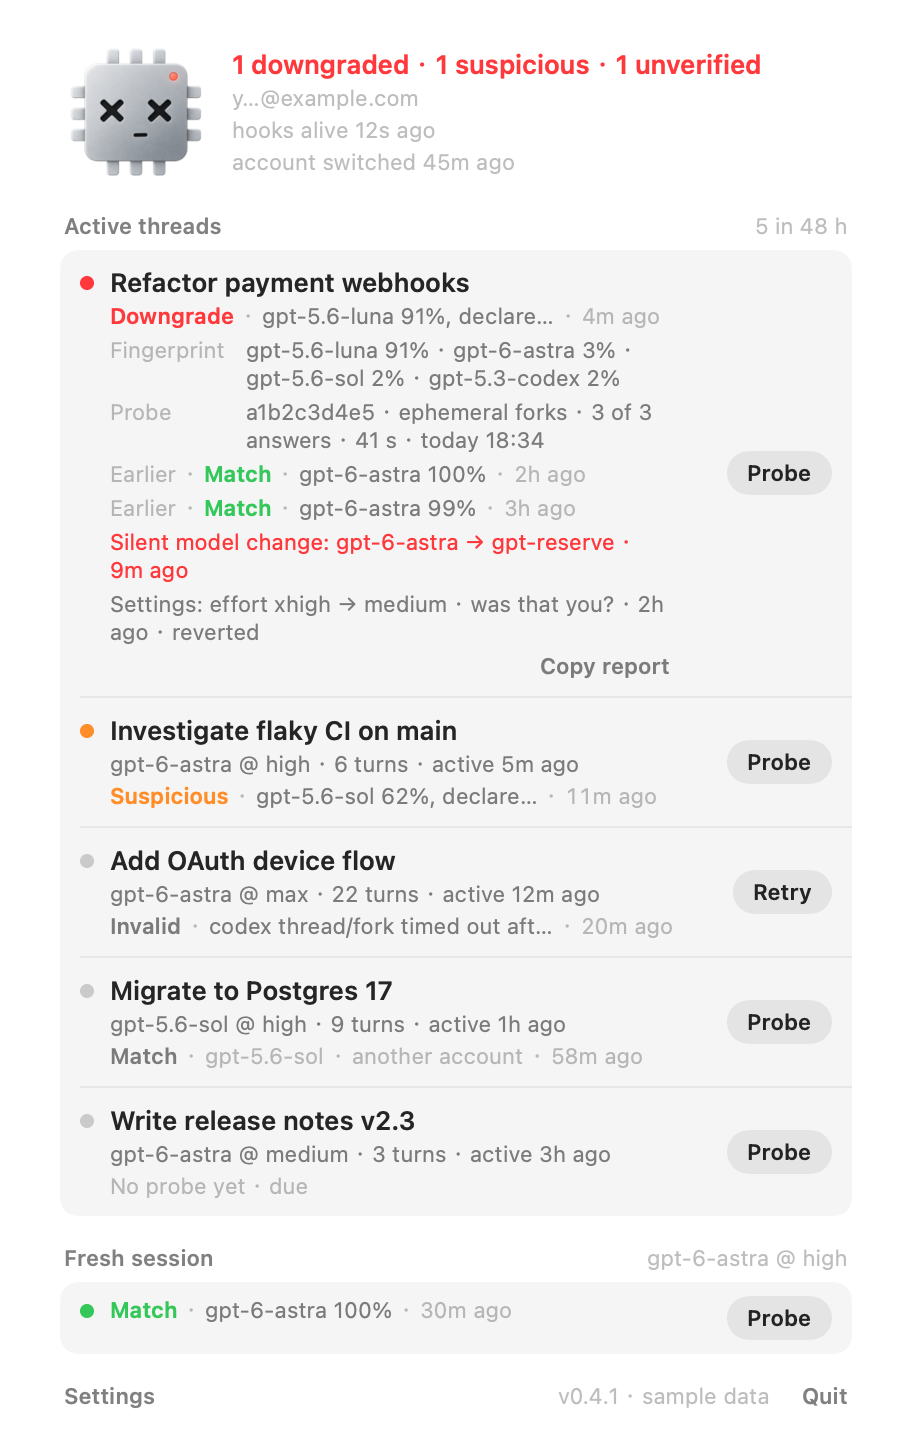
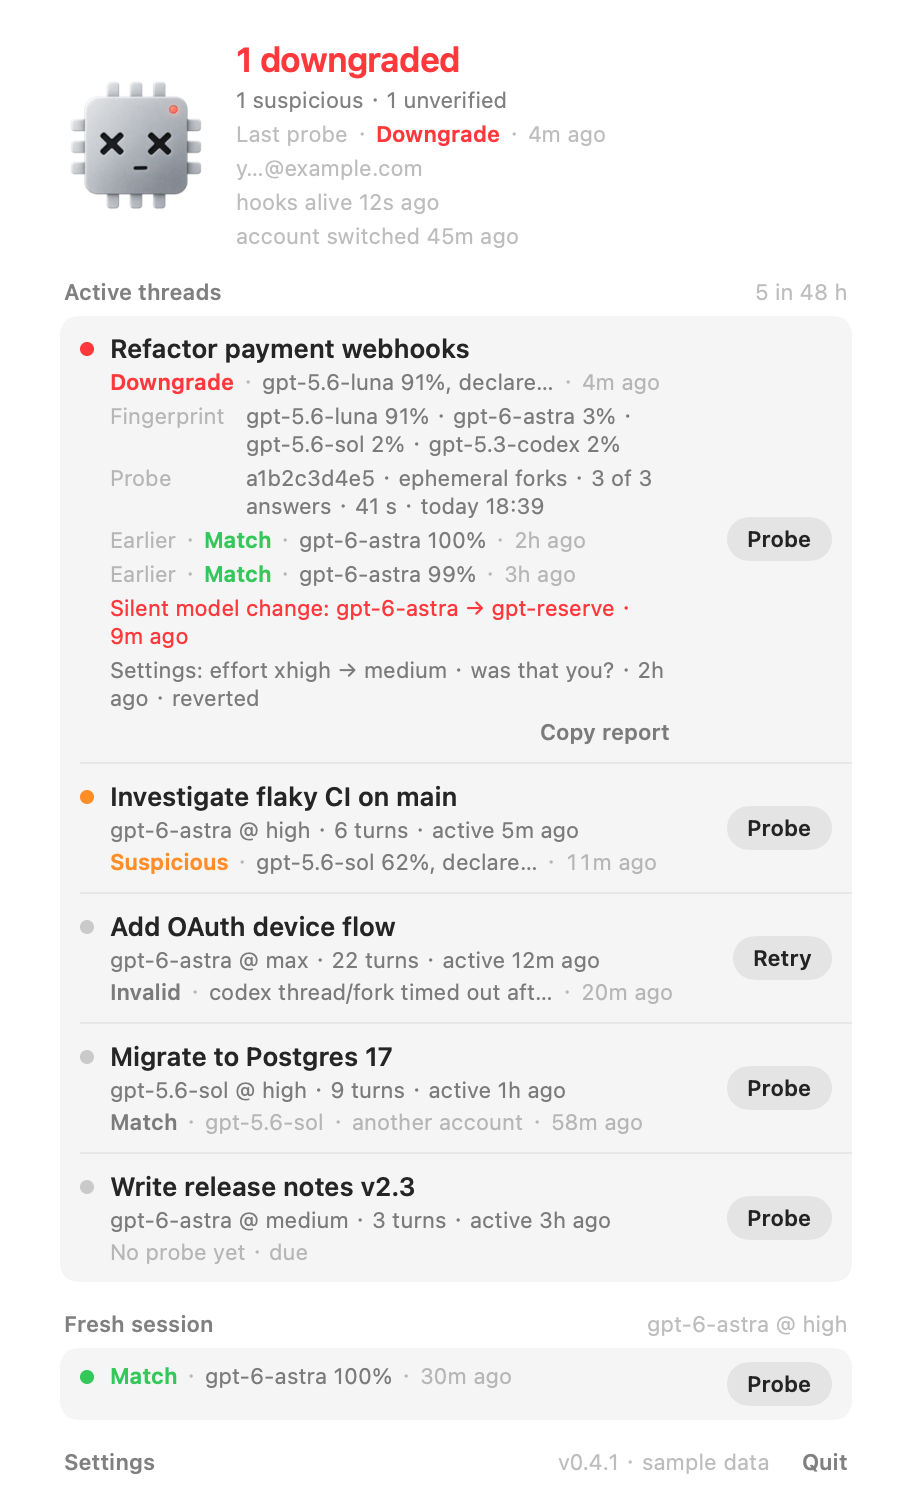
Header: 17 pt headline for the primary status, the other counts and the last probe as quiet lines
The 72 pt face needs a headline of its own weight: the first part of the status is set at 17 pt semibold (the panel's single large line; the type scale is now headline 17 / title 13 / text 11), the remaining counts follow at 11 pt, then "Last probe · Match · 52m ago", the account, hooks and an account switch, one short line each. No wrapping of the headline any more.

diff --git a/macos/Sources/IsGPTNerfed/PanelView.swift b/macos/Sources/IsGPTNerfed/PanelView.swift
@@ -165,23 +165,45 @@ struct PanelView: View {
 
     // MARK: header
 
-    // The face, and beside it the verdict of the moment over one short line per fact (account, hooks, switch).
+    // The face, and beside it: the headline of the moment (17 pt, the panel's one large line: the first part of the
+    // status), the other counts, the last probe, then one quiet line per fact (account, hooks, switch).
     private var header: some View {
-        HStack(alignment: .center, spacing: 12) {
+        let parts = statusWord.components(separatedBy: " · ")
+        return HStack(alignment: .center, spacing: 14) {
             FaceView(alert: store.isAlert, warn: store.isWarn, running: store.isRunning)
-            VStack(alignment: .leading, spacing: 2) {
-                Text(statusWord)
-                    .font(Type.title)
+            VStack(alignment: .leading, spacing: 3) {
+                Text(parts.first ?? "")
+                    .font(Type.headline)
                     .foregroundStyle(store.isAlert ? .red : (store.isWarn ? .orange : .primary))
                     .lineLimit(2)
+                if parts.count > 1 {
+                    Text(parts.dropFirst().joined(separator: " · ")).font(Type.text).foregroundStyle(.secondary).lineLimit(1)
+                }
                 if let (text, attention) = hooksLine, attention {
                     Text(text).font(Type.strong).foregroundStyle(.orange).lineLimit(2)
                 }
+                lastProbeLine
                 ForEach(quietLines, id: \.self) { Text($0).font(Type.text).foregroundStyle(.tertiary).lineLimit(1) }
             }
             Spacer(minLength: 0)
         }
         .padding(.horizontal, 2)
+    }
+
+    /// "Last probe · Match · 49m ago": the newest probe of any thread or fresh session.
+    @ViewBuilder private var lastProbeLine: some View {
+        if let p = store.snapshot?.recentProbes.first, store.lastError == nil {
+            HStack(spacing: 4) {
+                Text("Last probe").foregroundStyle(.tertiary)
+                Text("·").foregroundStyle(.tertiary)
+                Text(p.word).font(Type.strong).foregroundStyle(p.staleAccount == true ? Color.secondary : p.tint)
+                if let ago = p.finishedAgo, !ago.isEmpty {
+                    Text("·").foregroundStyle(.tertiary)
+                    Text(ago).monospacedDigit().foregroundStyle(.tertiary)
+                }
+            }
+            .font(Type.text)
+        }
     }
 
     private var statusWord: String {

diff --git a/macos/Sources/IsGPTNerfed/Glass.swift b/macos/Sources/IsGPTNerfed/Glass.swift
@@ -14,10 +14,12 @@ extension EnvironmentValues {
     }
 }
 
-/// Type scale: exactly two sizes and two weights.
-///   title  13pt semibold   thread titles, pet name
-///   text   11pt regular    everything else; semibold only for the verdict word and section headers
+/// Type scale: three sizes, two weights.
+///   headline 17pt semibold   the one line next to the face in the header, nothing else
+///   title    13pt semibold   thread titles
+///   text     11pt regular    everything else; semibold only for the verdict word and section headers
 enum Type {
+    static let headline = Font.system(size: 17, weight: .semibold)
     static let title = Font.system(size: 13, weight: .semibold)
     static let text = Font.system(size: 11)
     static let strong = Font.system(size: 11, weight: .semibold)
